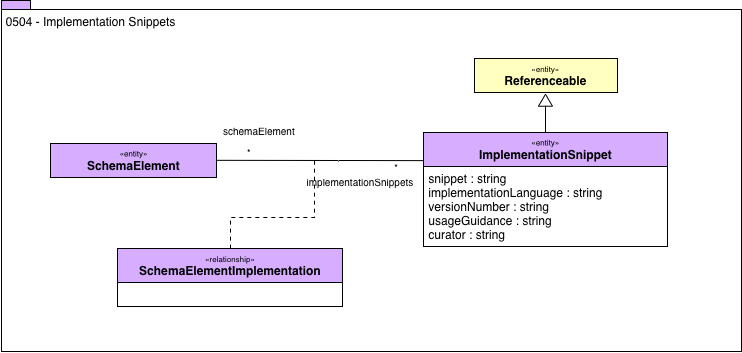
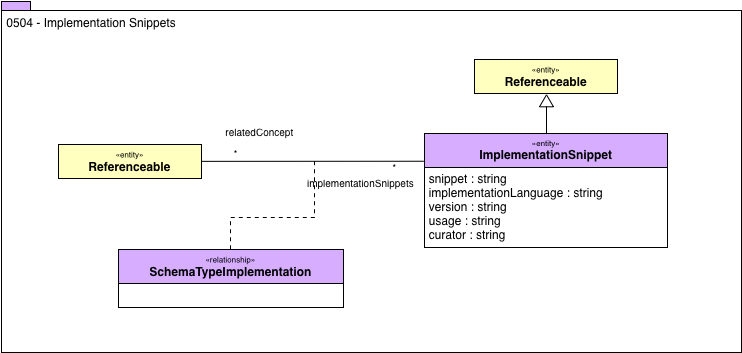
Update UML models for new schema structure. (#334)

diff --git a/open-metadata-publication/website/open-metadata-types/0501-Schema-Elements.md b/open-metadata-publication/website/open-metadata-types/0501-Schema-Elements.md
@@ -4,7 +4,9 @@
 # 0501 Schema Elements
 
 The schema used by data platforms to defined the structure of data assets are concrete physical
-artifacts, typically managed in a configuration management database.  There are many approaches.  XML and JSON documents have their schema built-into the data.  Relational databases use their own Data Definition Language (DDL) for defining the data structures in the database.  
+artifacts, typically managed in a configuration management database.  There are many approaches.
+XML and JSON documents have their schema built-into the data.
+Relational databases use their own Data Definition Language (DDL) for defining the data structures in the database.  
 
 For open metadata, we create an abstraction of these physical
 schema in order to understand the likely data elements stored
@@ -12,7 +14,9 @@ in the data asset so we can govern them.
 Thus the open metadata types for schema do not exactly
 follow the physical schema structure but have enough detail
 to map the data elements.
-There should be enough information in the open metadata types, however, to regenerate a reasonable implementation of a physical schema of a particular type.
+There should be enough information in the open metadata types, however,
+to regenerate a reasonable implementation of a physical schema
+of a particular type.
 
 **SchemaElement** describes the base definition for representing
 schema in metadata.

diff --git a/open-metadata-publication/website/open-metadata-types/0503-Asset-Schema.md b/open-metadata-publication/website/open-metadata-types/0503-Asset-Schema.md
@@ -3,10 +3,12 @@
 
 # 0503 Asset Schema
 
-Model 0503 shows the relationship between an access and a
-schema element.
+Model 0503 shows the relationship between an [Asset](0010-Base-Model.md)
+and a [Schema Element](0501-Schema-Elements.md).
+
 A physical data store may be made up of a hierarchy of Assets.
-Each of these Assets may point to the appropriate SchemaElements which are also typically organized in a hierarchy.
+Each of these Assets may point to the appropriate SchemaElements which
+are also typically organized in a hierarchy.
 Thus we can work with both assets and schema at different
 levels of granularity.
 

diff --git a/open-metadata-publication/website/open-metadata-types/0504-Implementation-Snippets.md b/open-metadata-publication/website/open-metadata-types/0504-Implementation-Snippets.md
@@ -5,8 +5,9 @@
 
 Developers can be aided in their work by having snippets of schema implementation that follow approved structures
 and naming conventions that they can include in their APIs and data structures.
-Model 0504 shows how these can be linked to a Schema Element.
-The **ImplementationSnippet** is a [Referenceable](0010-Base-Model.md) which means
+Model 0504 shows how these can be linked to a [Referenceable](0010-Base-Model.md).
+
+The **ImplementationSnippet** is a Referenceable which means
 it can have a link to an external reference
 (say a physical schema implementation in a source code repository).
 

diff --git a/open-metadata-publication/website/open-metadata-types/0536-API-Schemas.md b/open-metadata-publication/website/open-metadata-types/0536-API-Schemas.md
@@ -7,7 +7,7 @@ APIs exchange data structures and commands.
 The schema of the API is its interface definition.
 It is an access point for data and so it is important to
 understand and control what data is passing over an API.
-Model 0536shows the structure of an API schema.
+Model 0536 shows the structure of an API schema.
 The top level schema for the API lists the operations.
 Under that, each operation defines its requests and responses.
 

diff --git a/open-metadata-publication/website/open-metadata-types/Area-3-models.md b/open-metadata-publication/website/open-metadata-types/Area-3-models.md
@@ -24,6 +24,7 @@ understand the data assets they are working with.
 
 * **[0310 Glossary](0310-Glossary-Model.md)**
 * **[0320 Category Hierarchy](0320-Category-Hierarchy.md)**
+* **[0330 Glossary Terms](0330-Terms.md)**
 * **[0340 Dictionary](0340-Dictionary.md)**
 * **[0350 Related Terms](0350-Related-Terms.md)**
 * **[0360 Contexts](0360-Contexts.md)**
